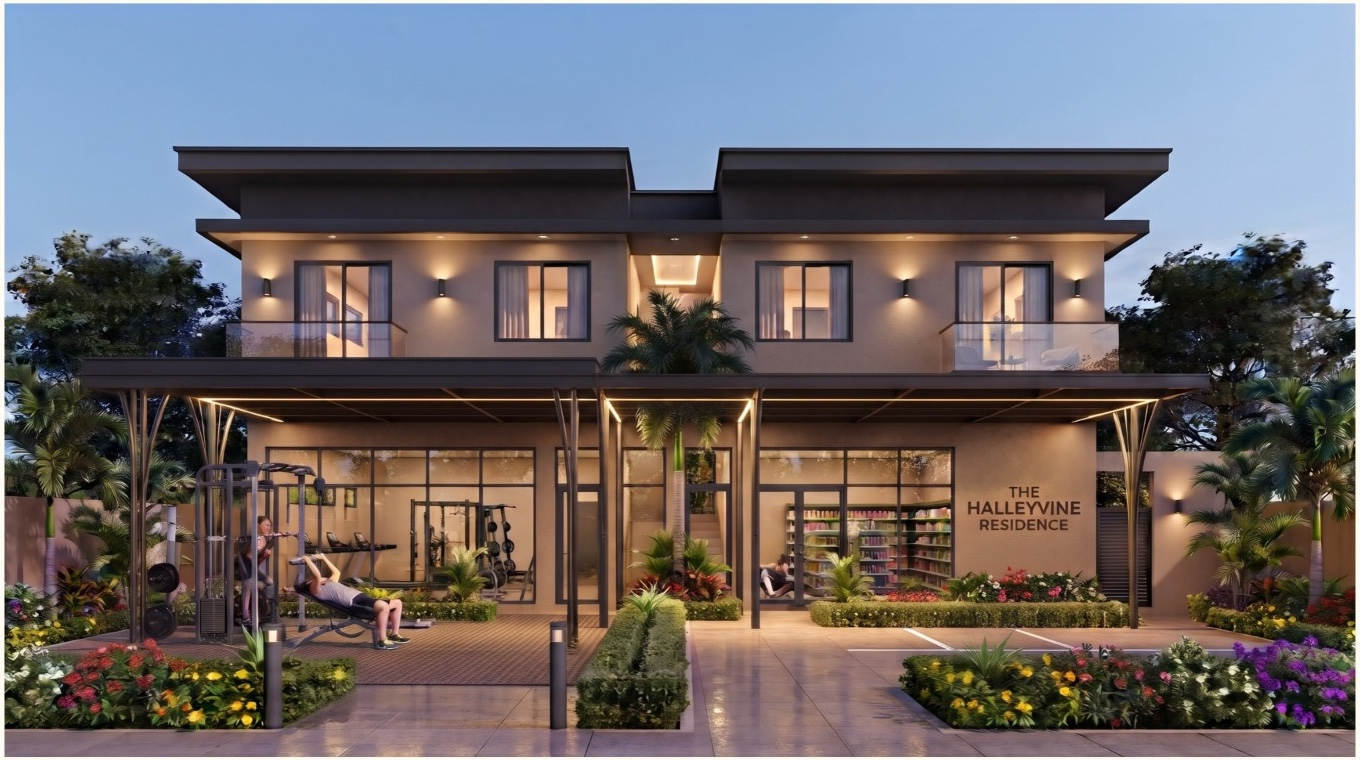
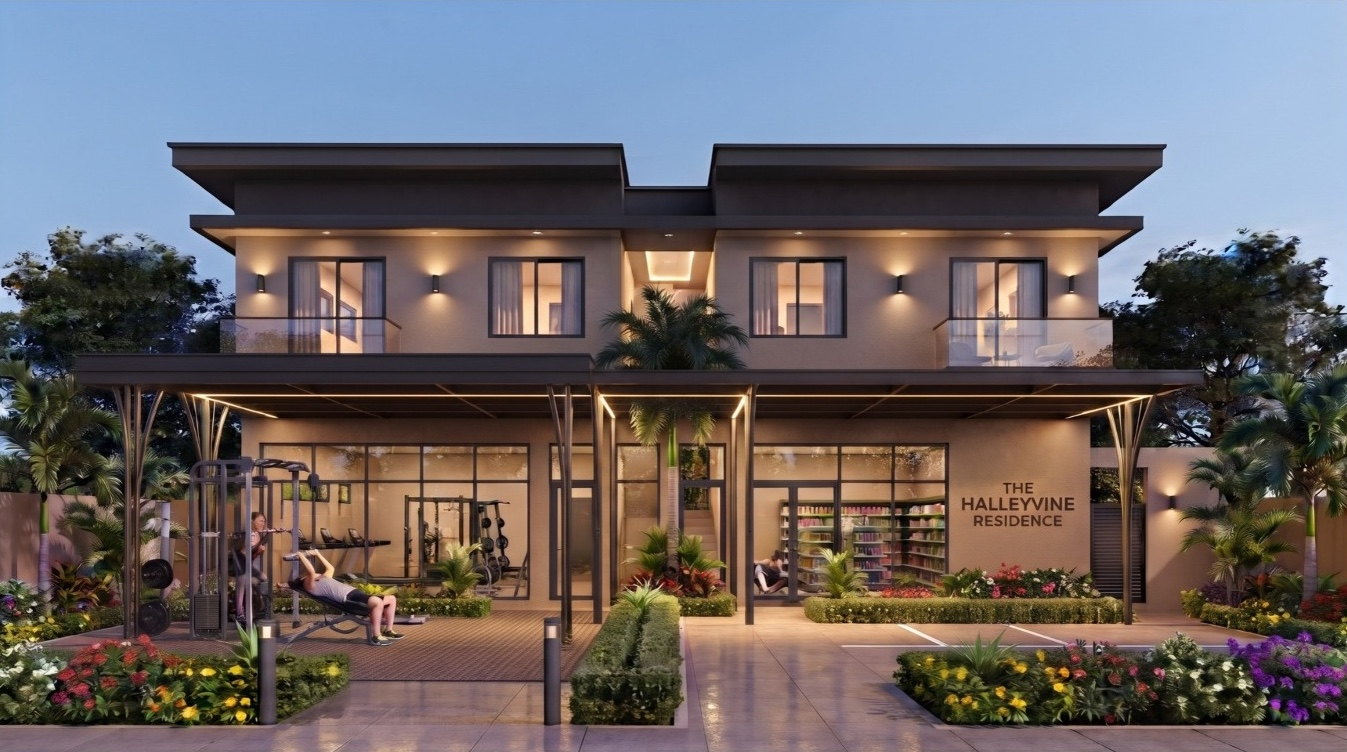
demo commit VI

diff --git a/src/content/site.ts b/src/content/site.ts
@@ -13,16 +13,18 @@ export const INTEREST_OPTIONS = [
 
 export type InterestValue = (typeof INTEREST_OPTIONS)[number]["value"];
 
-export type FloorPlan = { src: string; width: number; height: number };
+/** An image plus its real pixel size, so the page can keep its proportions without cropping. */
+export type ImageAsset = { src: string; width: number; height: number };
+export type FloorPlan = ImageAsset;
 
 export const site = {
-  name: "Halleyvine Residence",
+  name: "Halleyvine Residence – Off Lagos-Calabar Coastal road",
   shortName: "Halleyvine",
   domain: "halleyvine.online",
   headline: "A new way to live in Sangotedo.",
   title: "Halleyvine Residence | A new way to live in Sangotedo",
   description:
-    "Discover Halleyvine Residence: thoughtfully designed apartments for comfortable, modern living in Sangotedo, Lagos.",
+    "Comprising of thoughtfully designed apartments for comfortable modern living",
   /** Header logo. width/height are the file's real pixel size (used for the aspect ratio). Set to null to show the text name. */
   logo: { src: "/images/logo.png", alt: "Halleyvine", width: 1119, height: 819 } as { src: string; alt: string; width: number; height: number } | null,
   /** Developer credit, shown in the footer. Set `logo` to null to show the name only. */
@@ -51,13 +53,15 @@ export const site = {
     intervalMs: 5000,
     imageAlt: "Halleyvine Residence exterior",
     subcopy:
-      "Discover Halleyvine Residence, thoughtfully designed apartments for comfortable modern living.",
-    cta: "Explore Halleyvine",
+      "Comprising of thoughtfully designed apartments for comfortable modern living.",
+    cta: "Start Here",
   },
 
   intro: {
     title: "A home for your next chapter",
-    image: "/images/intro.jpg" as string | null, // PLACEHOLDER: "/images/intro.jpg"
+    // width/height = the file's pixel size. The frame takes this shape, so the whole image shows (no cropping).
+    // If you replace intro.jpg with a different size, update these two numbers.
+    image: { src: "/images/intro.jpg", width: 2400, height: 1792 } as ImageAsset | null,
     imageAlt: "Halleyvine Residence living space",
     // PLACEHOLDER copy drawn only from the brief; replace with the approved project description.
     body: [
@@ -90,39 +94,44 @@ export const site = {
 
   living: {
     title: "More than just an apartment",
-    image: null as string | null, // PLACEHOLDER: "/images/living.jpg"
+    image: "/images/living.jpg" as string | null, // PLACEHOLDER: "/images/living.jpg"
     imageAlt: "Halleyvine Residence lifestyle and amenities",
     intro: "A residential experience built around comfort, convenience and modern living.",
     // PLACEHOLDER: replace with the CONFIRMED amenities list only.
     amenities: [
       { title: "Contemporary layouts", text: "Apartments planned for comfortable everyday living." },
-      { title: "Lifestyle amenities", text: "Confirmed facilities to be listed here." },
-      { title: "Convenient location", text: "In the developing community of Sangotedo." },
-      { title: "Ownership options", text: "Available property options for ownership." },
+      { title: "Lifestyle amenities", text: "Gated access with CCTV Surveillance Solar powered perimeter lighting Club house comprising of a concierge, Gym, mini mart, pharmacare, estate facility office, café" },
+      { title: "Convenient location", text: "In the developing community of Sangotedo. Fast-growing environment. 25mins to VI (Eko Hotel), family centric environment with the Novare mall about 5mins away" },
+      { title: "Ownership options", text: "1, 2 & 3-bed apartments with 4-bed semi-detached with 1room BQ Eligible for mortgage purchases too" },
     ],
   },
 
   location: {
     title: "Discover Sangotedo",
-    image: null as string | null, // PLACEHOLDER: Novare Mall photo, "/images/novare-mall.jpg"
+    image: "/images/novare-mall.jpg" as string | null, // PLACEHOLDER: Novare Mall photo, "/images/novare-mall.jpg"
     imageAlt: "Novare Mall, Sangotedo",
     // PLACEHOLDER: replace with the exact project coordinates / address.
     mapQuery: "Sangotedo, Lagos, Nigeria",
-    text: "Halleyvine Residence sits in Sangotedo, a developing residential location in Lagos, close to the Novare Mall, one of the area's best known landmarks.",
+    text: "Halleyvine is strategically positioned to sit right in the middle of Sangotedo; and being halfway to the bustling city life constantly developing there and to the Lagos-Calabar coastal road, with an escape back into VI or out of town for a weekend trip.",
     // PLACEHOLDER: add the verified distance/drive time to the Lekki-Epe Expressway and the coastal road.
     coastalCallout: {
-      title: "Close to the coastal road",
-      text: "Distance and access details to be confirmed.",
+      title: "Constantly over looked as a location of value, ",
+      text: "Sangotedo has over the past decade, still grown by 3x value appreciation higher than Lekki 1.",
     },
   },
 
   enquiry: {
     title: "Let's help you explore Halleyvine.",
-    subtitle: "Tell us a little about what you are looking for. Our team will share the relevant information with you.",
+    subtitle: "Tell us a little about what you are looking for.",
+    /** Shown on its own line below the subtitle, in smaller text. */
+    note: "Our team will share the relevant information with you.",
   },
 
   whatsapp: {
     title: "Prefer a direct conversation?",
+    /** Line below the title; tapping it on a phone dials the number in `phone`. */
+    call: "Call 0809 019 4101",
+    phone: "+2348090194101",
     cta: "Chat with us on WhatsApp",
   },
 };

diff --git a/src/components/components.test.tsx b/src/components/components.test.tsx
@@ -2,6 +2,8 @@ import { act, fireEvent, render, screen } from "@testing-library/react";
 import { describe, expect, it, vi } from "vitest";
 import { Hero } from "./sections/Hero";
 import { HeroGallery } from "./HeroGallery";
+import { site } from "@/content/site";
+import { WhatsAppSection } from "./sections/WhatsAppSection";
 import { Intro } from "./sections/Intro";
 import { Apartments } from "./sections/Apartments";
 import { Location } from "./sections/Location";
@@ -16,13 +18,17 @@ describe("sections", () => {
     expect(screen.getByText("Enquire")).toBeInTheDocument();
     expect(screen.getByText(/All rights reserved/)).toBeInTheDocument();
     expect(screen.getByText("Developed by")).toBeInTheDocument();
-    expect(screen.getByText("Chateau Royal Real Estate Limited")).toBeInTheDocument();
-    expect(screen.getByAltText("Chateau Royal Real Estate Limited")).toBeInTheDocument();
+    expect(screen.getByText(site.developer.name)).toBeInTheDocument();
+    expect(screen.getByAltText(site.developer.name)).toBeInTheDocument();
+  });
+  it("renders the WhatsApp section with a tap-to-call line", () => {
+    render(<SourceProvider><WhatsAppSection /></SourceProvider>);
+    expect(screen.getByText(site.whatsapp.call)).toHaveAttribute("href", `tel:${site.whatsapp.phone}`);
   });
   it("renders hero headline and CTA", () => {
     render(<Hero />);
-    expect(screen.getByRole("heading", { level: 1 })).toHaveTextContent("A new way to live in Sangotedo.");
-    expect(screen.getByText("Explore Halleyvine")).toHaveAttribute("href", "#introduction");
+    expect(screen.getByRole("heading", { level: 1 })).toHaveTextContent(site.headline);
+    expect(screen.getByText(site.hero.cta)).toHaveAttribute("href", "#introduction");
   });
   it("hero gallery auto-advances and responds to dots", () => {
     vi.useFakeTimers();
@@ -48,12 +54,12 @@ describe("sections", () => {
   });
   it("renders the intro title", () => {
     render(<Intro />);
-    expect(screen.getByText("A home for your next chapter")).toBeInTheDocument();
+    expect(screen.getByText(site.intro.title)).toBeInTheDocument();
   });
   it("opens and closes the floor plan dialog", () => {
     render(<SourceProvider><Apartments /></SourceProvider>);
-    expect(screen.getByText("Two-bedroom apartment")).toBeInTheDocument();
-    expect(screen.getByText("Three-bedroom apartment")).toBeInTheDocument();
+    expect(screen.getByText(site.apartments.units[0].name)).toBeInTheDocument();
+    expect(screen.getByText(site.apartments.units[1].name)).toBeInTheDocument();
     fireEvent.click(screen.getAllByText("View floor plan")[0]);
     expect(screen.getByRole("dialog")).toBeInTheDocument();
     fireEvent.click(screen.getByLabelText("Close floor plan"));
@@ -61,7 +67,7 @@ describe("sections", () => {
   });
   it("shows the coastal road call-out and a lazy map", () => {
     render(<Location />);
-    expect(screen.getByText("Close to the coastal road")).toBeInTheDocument();
+    expect(screen.getByText(site.location.coastalCallout.title.trim())).toBeInTheDocument();
     expect(screen.getByTitle(/Map showing/)).toHaveAttribute("loading", "lazy");
   });
 });

diff --git a/src/styles/theme.scss b/src/styles/theme.scss
@@ -361,7 +361,18 @@ h3 {
   padding: 1rem 1.25rem;
 }
 
-// Enquiry
+// Enquiry: text steps down in size from the title, to the subtitle, to the note
+.hv-enquiry-subtitle {
+  font-size: 1.15rem;
+  opacity: 0.85;
+  text-wrap: balance; // avoid a single word left alone on the last line
+}
+
+.hv-enquiry-note {
+  font-size: 0.9rem;
+  opacity: 0.65;
+}
+
 .hv-form-card {
   background: #fff;
   color: $hv-ink;
@@ -399,6 +410,16 @@ h3 {
   &:hover {
     color: #fff;
     background: #178a44;
+  }
+}
+
+.hv-call-link {
+  color: $hv-green;
+  font-weight: 600;
+  text-decoration: none;
+  &:hover,
+  &:focus-visible {
+    text-decoration: underline;
   }
 }
 

diff --git a/src/components/sections/Intro.tsx b/src/components/sections/Intro.tsx
@@ -9,7 +9,13 @@ export function Intro() {
         <h2 id="intro-title" className="hv-title mb-4 text-center">
           {intro.title}
         </h2>
-        <SiteImage src={intro.image} alt={intro.imageAlt} label="Introduction image" aspect="16 / 9" />
+        <SiteImage
+          src={intro.image?.src ?? null}
+          alt={intro.imageAlt}
+          label="Introduction image"
+          aspect={intro.image ? `${intro.image.width} / ${intro.image.height}` : "16 / 9"}
+          sizes="(min-width: 900px) 860px, 100vw"
+        />
         <div className="mt-4">
           {intro.body.map((p) => (
             <p key={p} className="hv-lead">

diff --git a/src/components/sections/WhatsAppSection.tsx b/src/components/sections/WhatsAppSection.tsx
@@ -8,7 +8,11 @@ export function WhatsAppSection() {
         <h2 id="wa-title" className="hv-title mb-3">
           {site.whatsapp.title}
         </h2>
-        <p className="hv-lead mb-4">{site.whatsappDisplay}</p>
+        <p className="hv-lead mb-4">
+          <a href={`tel:${site.whatsapp.phone}`} className="hv-call-link">
+            {site.whatsapp.call}
+          </a>
+        </p>
         <WhatsAppButton label={site.whatsapp.cta} location="section" />
       </div>
     </section>

diff --git a/src/components/sections/EnquiryForm.tsx b/src/components/sections/EnquiryForm.tsx
@@ -204,7 +204,8 @@ export function EnquirySection() {
           <h2 id="enquiry-title" className="hv-title">
             {site.enquiry.title}
           </h2>
-          <p className="mb-0 opacity-75">{site.enquiry.subtitle}</p>
+          <p className="hv-enquiry-subtitle mb-1">{site.enquiry.subtitle}</p>
+          <p className="hv-enquiry-note mb-0">{site.enquiry.note}</p>
         </div>
         <EnquiryForm />
       </div>

diff --git a/docs/DEPLOYMENT.md b/docs/DEPLOYMENT.md
@@ -39,7 +39,7 @@ Images are `null` in `src/content/site.ts` until a file exists, and the page sho
 | Checked | Section (placeholder label) | Save file as | Set in `site.ts` | Suggested size |
 |---|---|---|---|---|
 | [x] | Hero slideshow (`hero-1.jpg` and `hero-2.jpg` added) | `public/images/hero-1.jpg`, `hero-2.jpg`, `hero-3.jpg`, ... in display order | add `{ src: "/images/hero-3.jpg", alt: "..." }` to `hero.images` | 2400 x 1500, landscape, subject centred (cropped to portrait on phones) |
-| [ ] | Introduction ("Introduction image") | `public/images/intro.jpg` | `intro.image: "/images/intro.jpg"` | 1920 x 1080 (16:9) |
+| [x] | Introduction (added) | `public/images/intro.jpg` | `intro.image: { src: "/images/intro.jpg", width: 2400, height: 1792 }`; update width/height if you replace the file | Any shape; shown whole (not cropped). About 2400 px wide |
 | [x] | Two-bedroom floor plan (added) | `public/plans/two-bed.jpg` | `apartments.units[0].floorPlan: { src: "/plans/two-bed.jpg", width: 2276, height: 1280 }` | Any shape; shown whole (not cropped). White background, about 2400 to 2800 px wide so labels stay readable when enlarged |
 | [x] | Three-bedroom floor plan (added) | `public/plans/three-bed.jpg` | `apartments.units[1].floorPlan: { src: "/plans/three-bed.jpg", width: 2800, height: 1340 }` | Same as above |
 | [ ] | Living experience ("Living experience image") | `public/images/living.jpg` | `living.image: "/images/living.jpg"` | 1920 x 1080 (16:9) |
